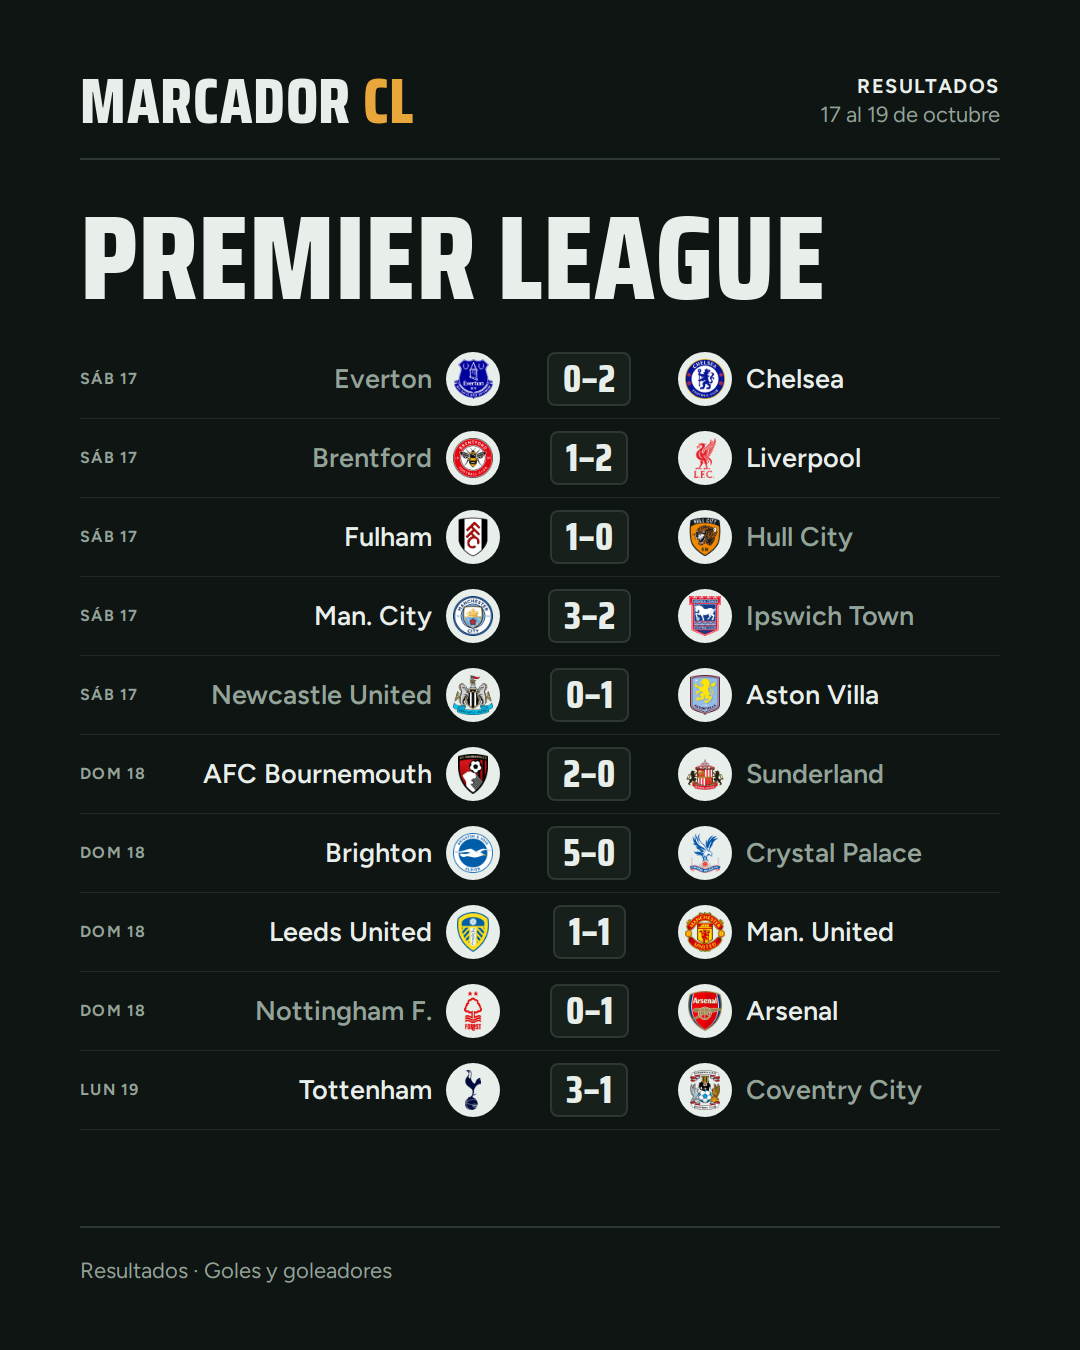
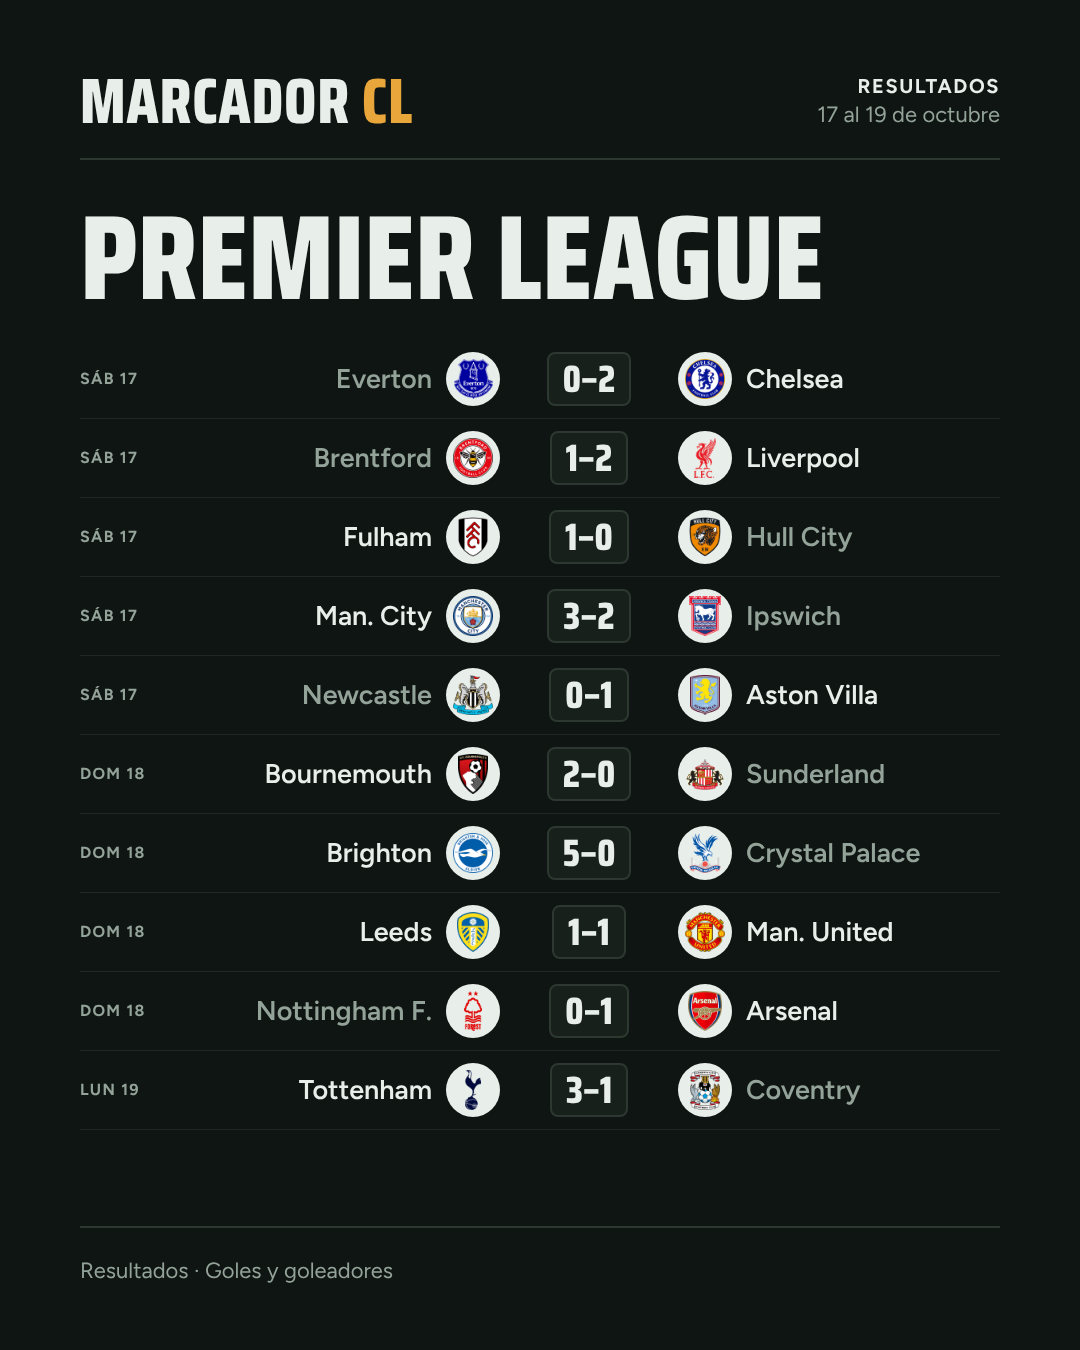
Historias: nombres cortos, minutos de descuento y rojas directas
Claude-Session: https://claude.ai/code/session_017N4jqvzeFfavdK3br5k5f7

diff --git a/historias/buscar.py b/historias/buscar.py
@@ -35,6 +35,10 @@ CORTOS = {  # nombres cortos en español
     "Atlético Madrid": "Atlético", "Atlético de Madrid": "Atlético", "Athletic Club": "Athletic",
     "Universidad de Chile": "U. de Chile", "Universidad Católica": "U. Católica",
     "Paris Saint-Germain": "PSG", "Bayern Munich": "Bayern", "Bayern Múnich": "Bayern",
+    "Newcastle United": "Newcastle", "AFC Bournemouth": "Bournemouth", "Leeds United": "Leeds",
+    "Ipswich Town": "Ipswich", "Coventry City": "Coventry", "West Ham United": "West Ham",
+    "Celta Vigo": "Celta", "Deportivo La Coruña": "Deportivo", "Sevilla FC": "Sevilla",
+    "Racing Santander": "Racing", "Rayo Vallecano": "Rayo", "Real Betis": "Betis",
 }
 TERMINADO = {"STATUS_FULL_TIME", "STATUS_FINAL", "STATUS_FINAL_AET", "STATUS_FINAL_PEN",
              "STATUS_END_OF_EXTRATIME", "STATUS_FINAL_AGT"}
@@ -98,18 +102,20 @@ def detalle(liga, ev):
     goles, tarjetas, anulados = [], [], []
     for d in comp.get("details", []):
         quien = (d.get("athletesInvolved") or [{}])[0].get("displayName", "")
-        minuto = (d.get("clock") or {}).get("displayValue", "")
+        minuto = re.sub(r"'\+", "+", (d.get("clock") or {}).get("displayValue", ""))
         tid = (d.get("team") or {}).get("id")
         if d.get("scoringPlay"):
             goles.append({"min": minuto, "jugador": quien, "lado": lado(tid),
                           "penal": bool(d.get("penaltyKick")), "autogol": bool(d.get("ownGoal"))})
         elif d.get("redCard"):
-            tarjetas.append({"min": minuto, "jugador": quien, "lado": lado(tid), "tipo": "roja"})
+            txt = ((d.get("type") or {}).get("text", "")).lower()
+            doble = bool(re.search(r"segunda|second|doble|yellow.?red", txt))
+            tarjetas.append({"min": minuto, "jugador": quien, "lado": lado(tid), "tipo": "doble" if doble else "roja"})
         elif d.get("yellowCard"):
             tarjetas.append({"min": minuto, "jugador": quien, "lado": lado(tid), "tipo": "amarilla"})
-    # segunda amarilla: roja de alguien que ya tenía amarilla
+    # segunda amarilla (solo si ESPN la marca así): no repetir esa amarilla
     for t in tarjetas:
-        if t["tipo"] == "roja":
+        if t["tipo"] == "doble":
             prev = [x for x in tarjetas if x["tipo"] == "amarilla" and x["jugador"] == t["jugador"]]
             if prev:
                 t["tipo"] = "doble"
